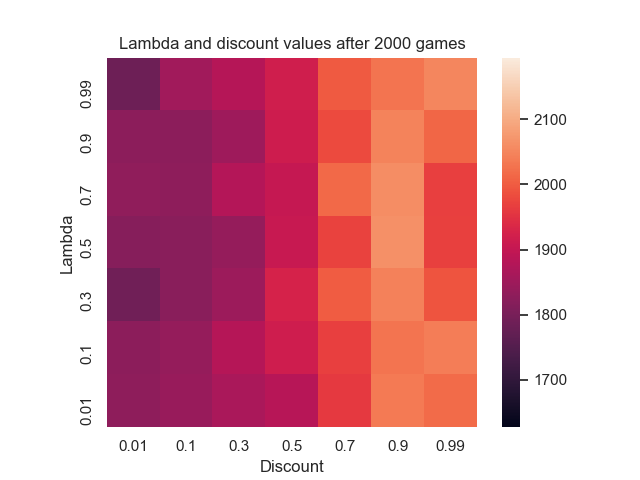
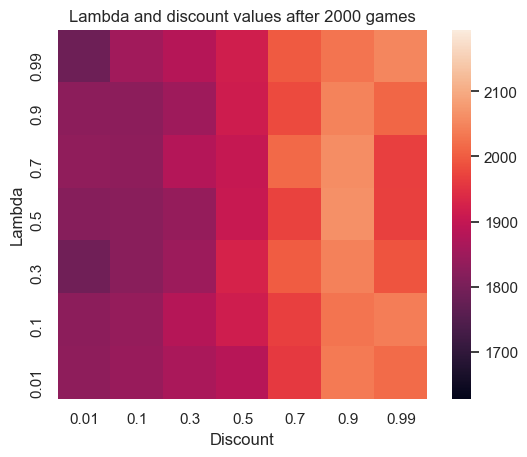
fix

Changed region(s): [[0.0, 0.0, 1.0, 1.0], [0.3036, 0.2757, 0.425, 0.7659], [0.3947, 0.2451, 0.425, 0.337]]

diff --git a/plotgenerators/heatmapplot.py b/plotgenerators/heatmapplot.py
@@ -49,5 +49,5 @@ for x, values in vs.items():
     b, t = plt.ylim()
     plt.ylim(b + 0.5, t - 0.5)
     ax.set_aspect("equal")
-    plt.savefig(f'GoodPlots/Heatmap-{x}.png')
+    plt.savefig(f'GoodPlots/Heatmap-{x}.png', bbox_inches='tight')
     plt.clf()
